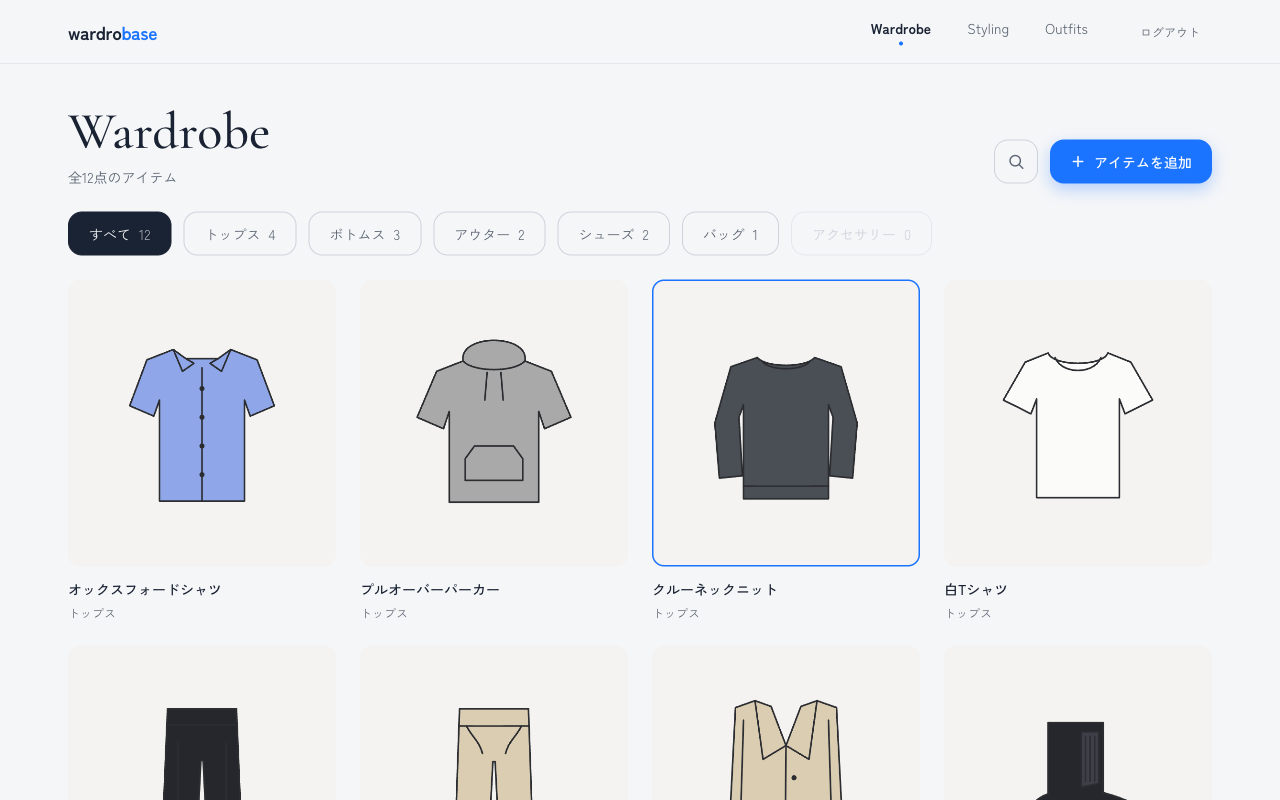
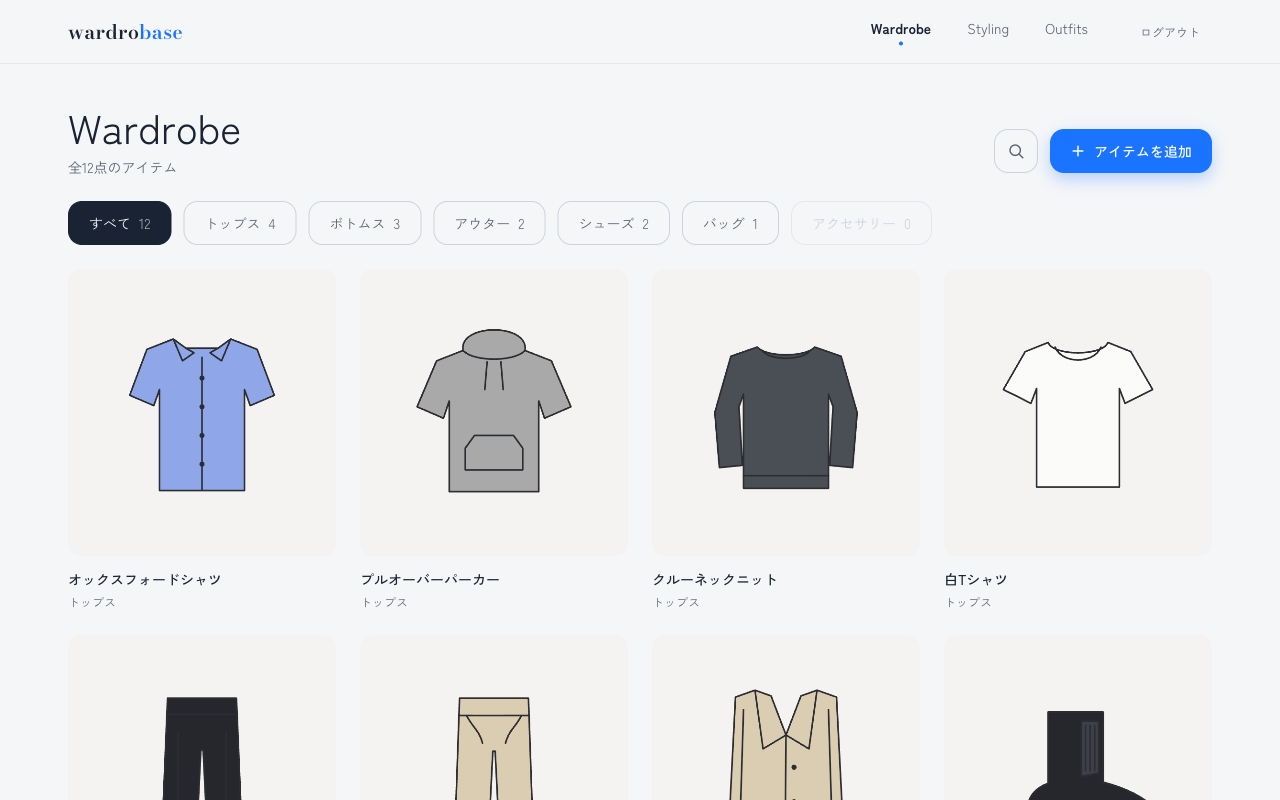
feat: 書体の役割を整理し、ロゴと日付数字だけをセリフ体にする

diff --git a/src/styles/tokens.css b/src/styles/tokens.css
@@ -69,8 +69,12 @@
   /* ===== タイポグラフィ: フォント ===== */
   --font-sans: var(--font-zen-kaku), "Hiragino Kaku Gothic ProN",
     "Noto Sans JP", system-ui, -apple-system, sans-serif;
-  /* セリフ体は英語の画面見出し（Wardrobe / Styling / Outfits）専用 */
-  --font-serif: var(--font-cormorant), Georgia, "Times New Roman", serif;
+  /*
+   * セリフ体はロゴ（誌名）と日付数字だけの特別扱い。
+   * 代役には各OS同梱の同系統（高コントラストのセリフ体）を挟む。
+   */
+  --font-serif: var(--font-bodoni), "Didot", "Bodoni 72", Georgia,
+    "Times New Roman", serif;
   --font-mono: ui-monospace, monospace;
 
   /* ===== タイポグラフィ: サイズ ===== */
@@ -84,8 +88,6 @@
   /* 英語のページ見出し（ディスプレイ用途）。本文系とは用途を分ける */
   --text-4xl: 2.5rem;
   --text-5xl: 3rem;
-  /* セリフ体の画面見出し。広い画面はこれ、狭い画面は 4xl に落とす */
-  --text-display: 3.25rem;
 
   /* ===== タイポグラフィ: ウェイト ===== */
   --font-normal: 400;

diff --git a/src/app/layout.tsx b/src/app/layout.tsx
@@ -1,12 +1,15 @@
 import type { ReactElement, ReactNode } from "react";
 
 import type { Metadata, Viewport } from "next";
-import { Cormorant_Garamond, Zen_Kaku_Gothic_New } from "next/font/google";
+import { Bodoni_Moda, Zen_Kaku_Gothic_New } from "next/font/google";
 import "../styles/globals.css";
 
-/* 画面見出し（Wardrobe / Styling / Outfits）専用のセリフ体。英字のみ */
-const cormorant = Cormorant_Garamond({
-  variable: "--font-cormorant",
+/*
+ * 画面見出し・日付数字・ロゴ用のセリフ体。英字のみ。
+ * 縦画が太く横画が極細の、ファッション誌の見出しの系統。
+ */
+const bodoniModa = Bodoni_Moda({
+  variable: "--font-bodoni",
   weight: ["500", "600"],
   subsets: ["latin"],
   display: "swap",
@@ -47,7 +50,7 @@ export default function RootLayout({
   return (
     <html
       lang="ja"
-      className={`${cormorant.variable} ${zenKakuGothicNew.variable}`}
+      className={`${bodoniModa.variable} ${zenKakuGothicNew.variable}`}
     >
       <body>{children}</body>
     </html>

diff --git a/src/components/ui/PageTitle.module.css b/src/components/ui/PageTitle.module.css
@@ -5,11 +5,16 @@
   gap: var(--space-4);
 }
 
+/*
+ * 見出しは本文と同じゴシックの標準ウェイトで軽やかに置く
+ * （セリフ体はロゴと日付数字だけの特別扱い）。
+ * 太字だと本文書体の欧文の丸みが強調され、ロゴと質感が揃わない。
+ * 大きさで十分立つので、太さは足さない。
+ */
 .title {
-  font-family: var(--font-serif);
-  font-size: var(--text-display);
-  font-weight: var(--font-medium);
-  line-height: 1.05;
+  font-size: var(--text-4xl);
+  font-weight: var(--font-normal);
+  line-height: 1.1;
   letter-spacing: 0;
 }
 
@@ -31,7 +36,7 @@
 
 @media (max-width: 600px) {
   .title {
-    font-size: var(--text-4xl);
+    font-size: var(--text-3xl);
   }
 
   .subtitle {

diff --git a/src/components/features/navigation/AppHeader.module.css b/src/components/features/navigation/AppHeader.module.css
@@ -28,10 +28,12 @@
   padding: 0 var(--space-4);
 }
 
+/* ロゴは見出しと同じセリフ体で、誌名（マストヘッド）として置く */
 .logo {
-  font-size: var(--text-lg);
-  font-weight: var(--font-bold);
-  letter-spacing: -0.02em;
+  font-family: var(--font-serif);
+  font-size: var(--text-xl);
+  font-weight: 600;
+  letter-spacing: 0.01em;
   color: var(--color-text-primary);
 }
 

diff --git a/src/app/(auth)/layout.module.css b/src/app/(auth)/layout.module.css
@@ -24,10 +24,12 @@
   gap: var(--space-6);
 }
 
+/* ロゴはヘッダーと同じセリフ体の誌名（マストヘッド）で揃える */
 .logo {
-  font-size: var(--text-2xl);
-  font-weight: var(--font-bold);
-  letter-spacing: -0.02em;
+  font-family: var(--font-serif);
+  font-size: var(--text-3xl);
+  font-weight: 600;
+  letter-spacing: 0.01em;
   text-align: center;
 }
 
